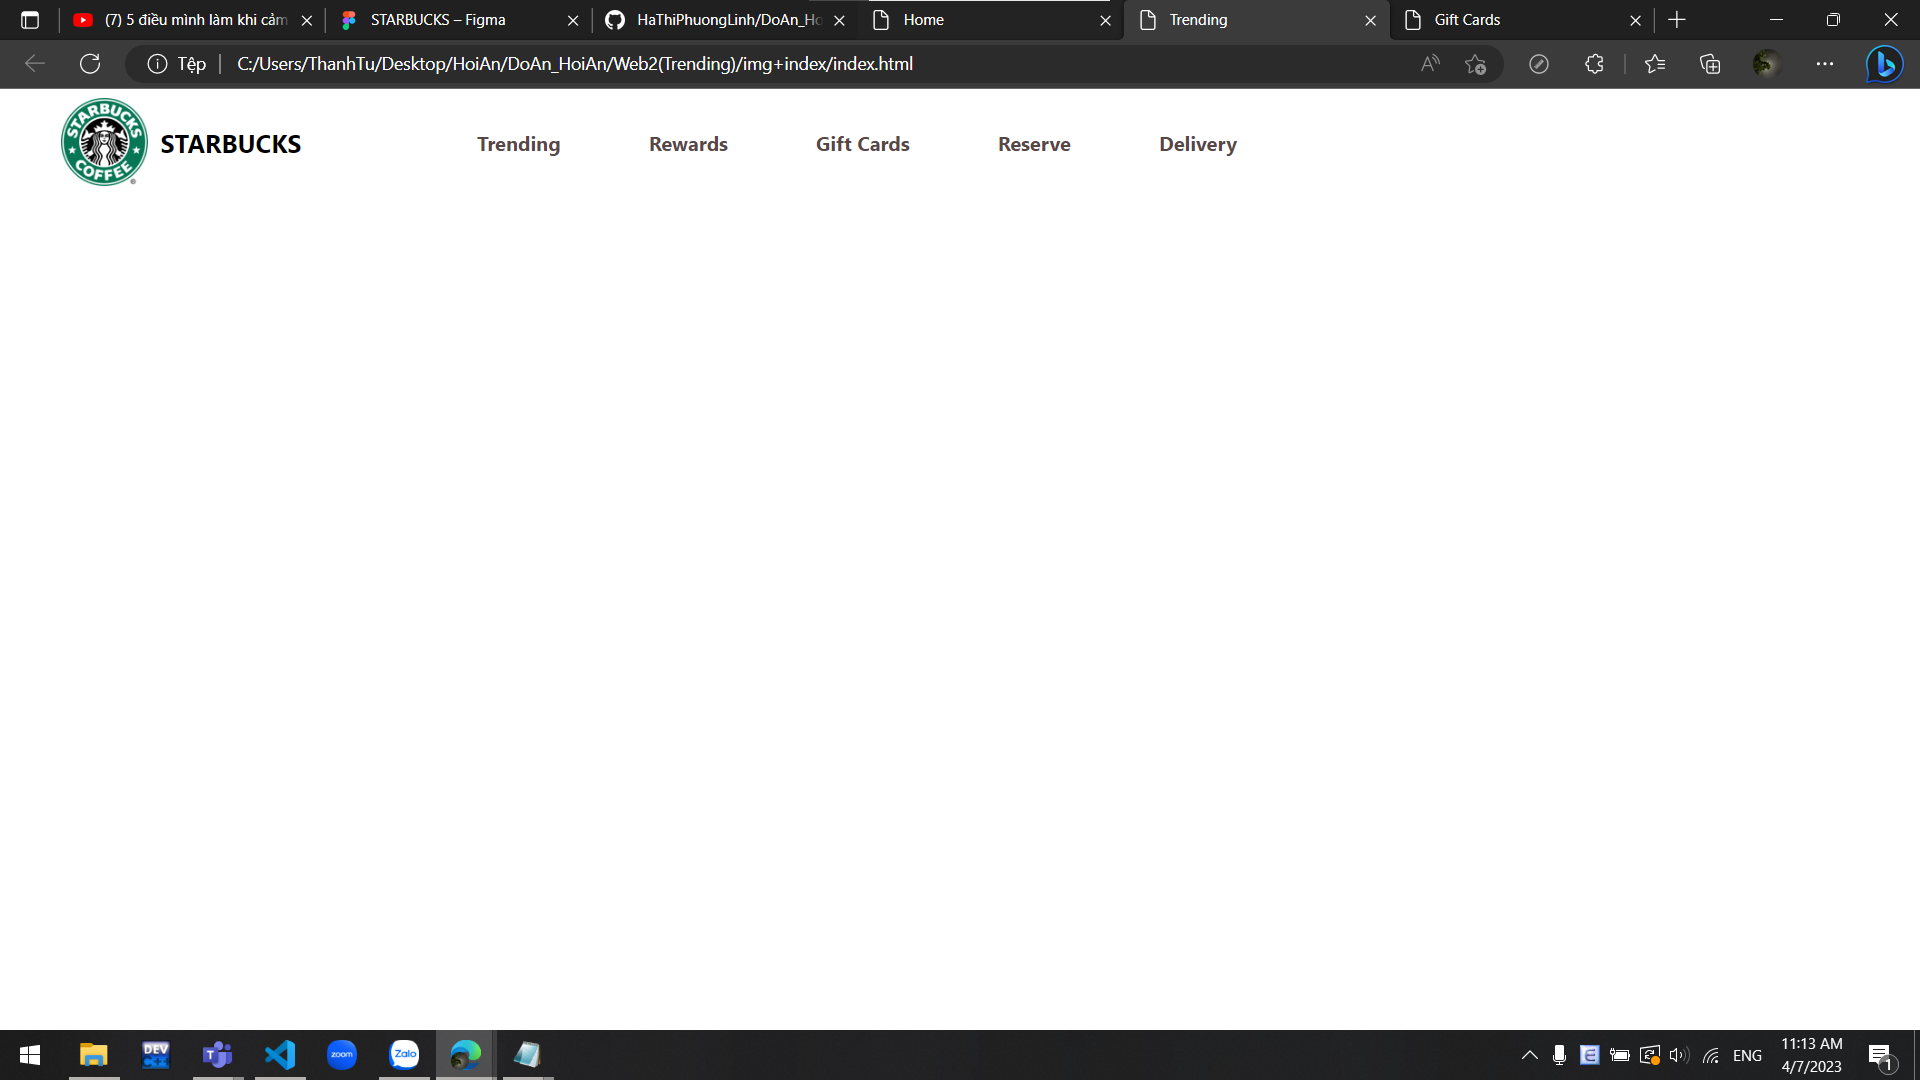
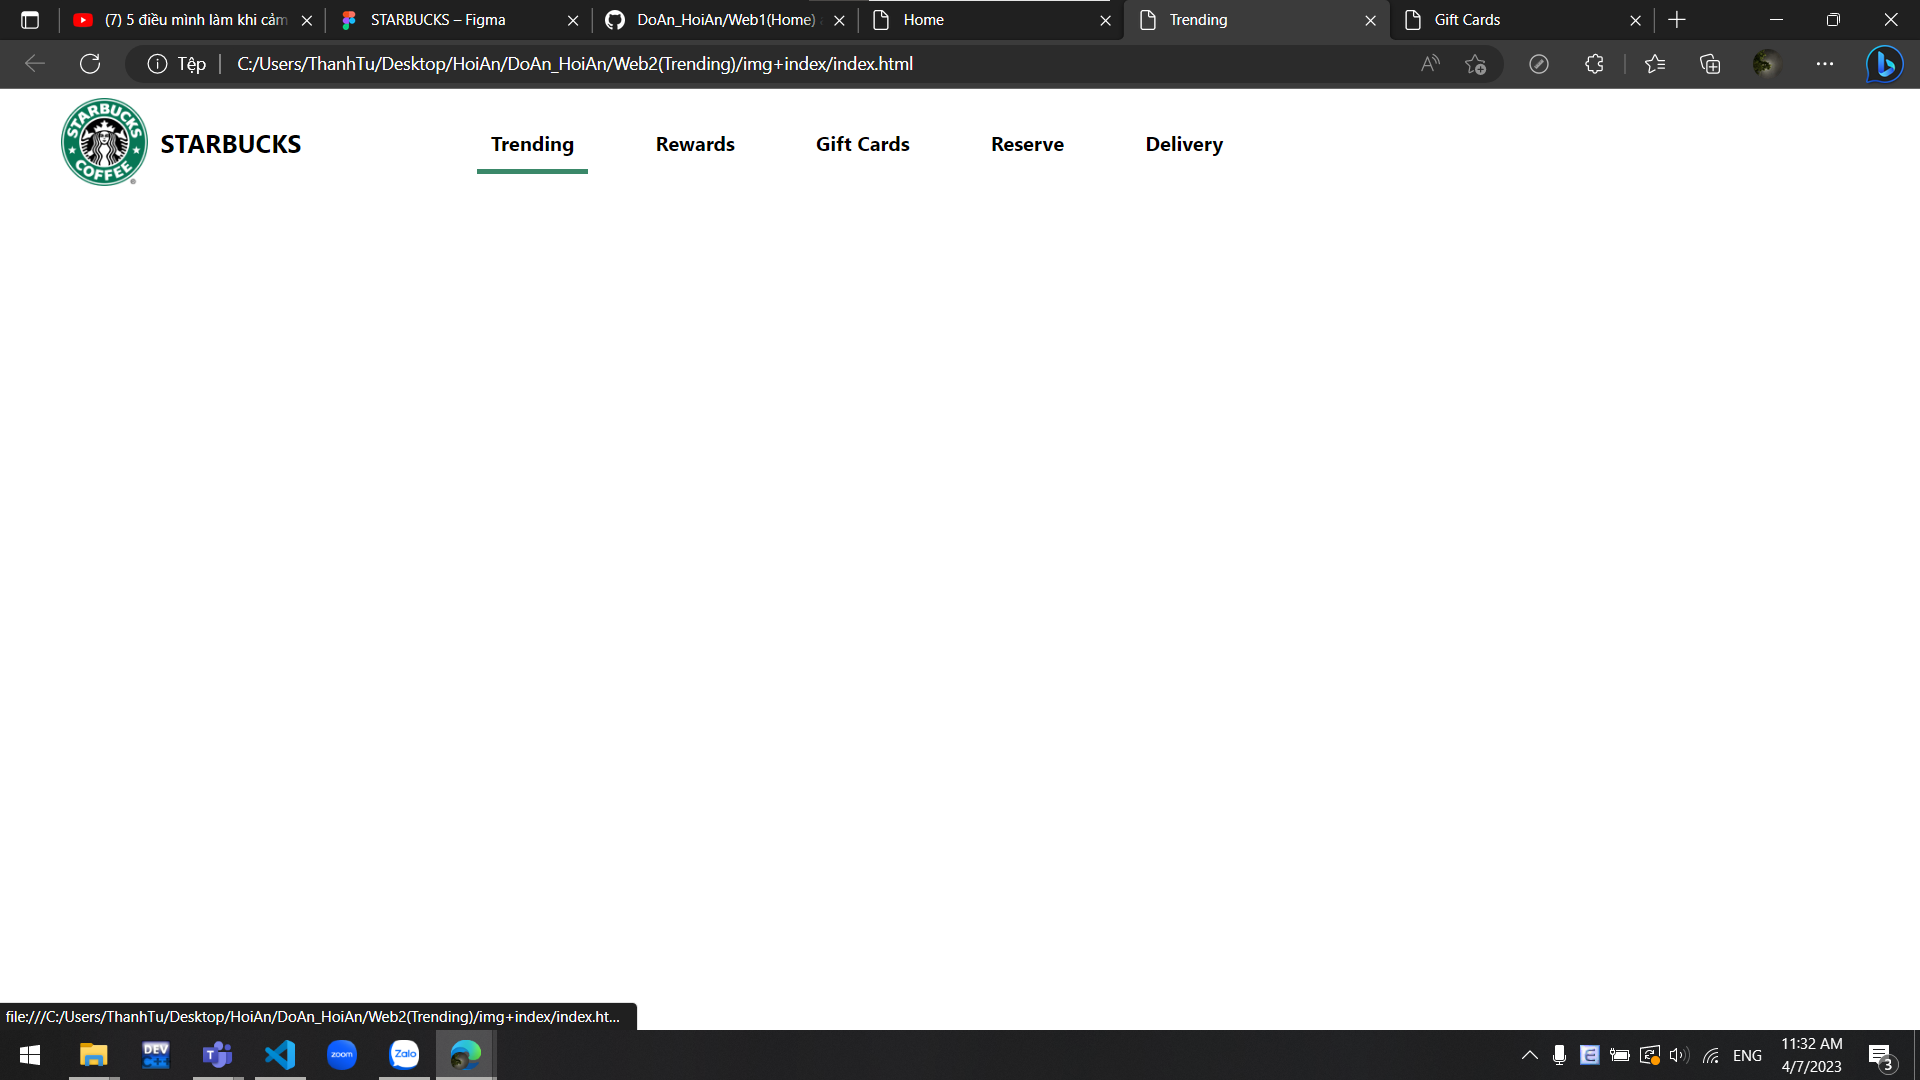
update center header

diff --git a/Web1(Home)/img+index/index.html b/Web1(Home)/img+index/index.html
@@ -40,6 +40,23 @@
             font-weight: bold;
             color: #574747;
         }
+
+        li {
+            list-style-type: none;
+        }
+
+        a:link {
+            color: black;
+            text-decoration: none;
+            padding: 11px;
+        }
+
+        a:hover {
+            color: black;
+            box-shadow: 0 4px #3A8869;
+            font-weight: bold;
+        }
+        
     </style>
 </head>
 <body>
@@ -50,12 +67,13 @@
                 <div class="logo"><b>STARBUCKS</b></div>
             </div>
             <div id="center">
-                <div>Trending</div>
-                <div>Rewards</div>
-                <div>Gift Cards</div>
-                <div>Reserve</div>
-                <div>Delivery</div>
+                <li><a href="#">Trending</a></li>
+                <li><a href="#">Rewards</a></li>
+                <li><a href="#">Gift Cards</a></li>
+                <li><a href="#">Reserve</a></li>
+                <li><a href="#">Delivery</a></li>
             </div>
+            
         </div>
     </div>
 </body>

diff --git a/Web2(Trending)/img+index/index.html b/Web2(Trending)/img+index/index.html
@@ -41,6 +41,22 @@
             font-weight: bold;
             color: #574747;
         }
+
+        li {
+            list-style-type: none;
+        }
+
+        a:link {
+            color: black;
+            text-decoration: none;
+            padding: 11px;
+        }
+
+        a:hover {
+            color: black;
+            box-shadow: 0 4px #3A8869;
+            font-weight: bold;
+        }
     </style>
 </head>
 
@@ -52,11 +68,11 @@
                 <div class="logo"><b>STARBUCKS</b></div>
             </div>
             <div id="center">
-                <div>Trending</div>
-                <div>Rewards</div>
-                <div>Gift Cards</div>
-                <div>Reserve</div>
-                <div>Delivery</div>
+                <li><a href="#">Trending</a></li>
+                <li><a href="#">Rewards</a></li>
+                <li><a href="#">Gift Cards</a></li>
+                <li><a href="#">Reserve</a></li>
+                <li><a href="#">Delivery</a></li>
             </div>
         </div>
     </div>

diff --git a/Web3(GiftCards)/img+index/index.html b/Web3(GiftCards)/img+index/index.html
@@ -41,6 +41,22 @@
             font-weight: bold;
             color: #574747;
         }
+
+        li {
+            list-style-type: none;
+        }
+
+        a:link {
+            color: black;
+            text-decoration: none;
+            padding: 11px;
+        }
+
+        a:hover {
+            color: black;
+            box-shadow: 0 4px #3A8869;
+            font-weight: bold;
+        }
     </style>
 </head>
 
@@ -52,11 +68,11 @@
                 <div class="logo"><b>STARBUCKS</b></div>
             </div>
             <div id="center">
-                <div>Trending</div>
-                <div>Rewards</div>
-                <div>Gift Cards</div>
-                <div>Reserve</div>
-                <div>Delivery</div>
+                <li><a href="#">Trending</a></li>
+                <li><a href="#">Rewards</a></li>
+                <li><a href="#">Gift Cards</a></li>
+                <li><a href="#">Reserve</a></li>
+                <li><a href="#">Delivery</a></li>
             </div>
         </div>
     </div>
